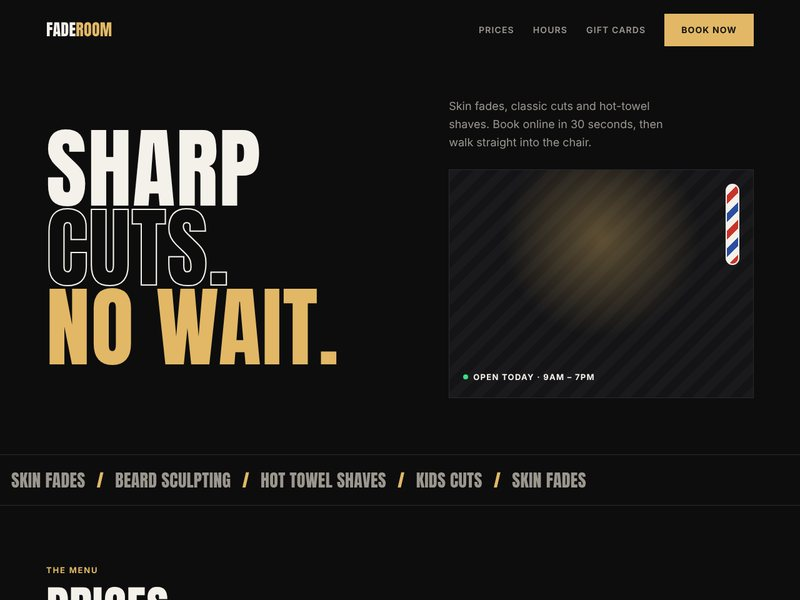
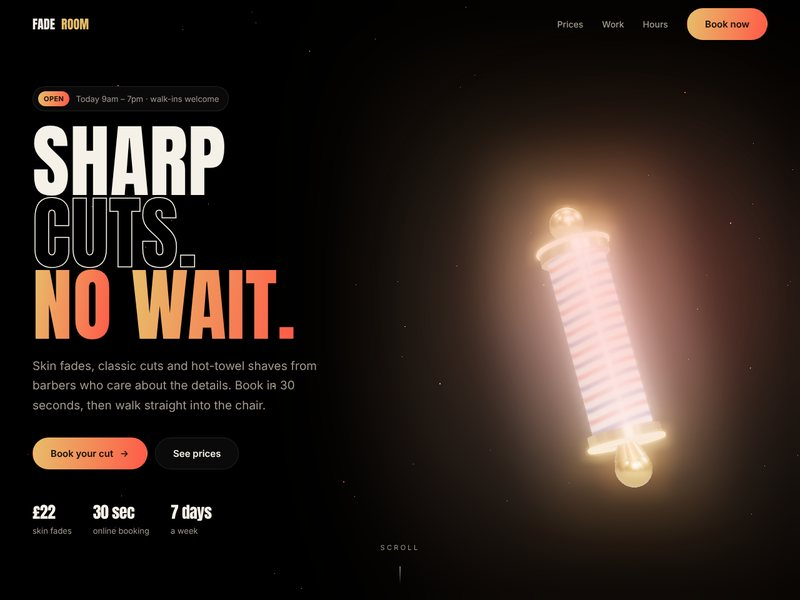
Finish 3D concept rebuild: self-building wireframe villa, Stonecrest replaces bakery
Claude-Session: https://claude.ai/code/session_01WikESusdrzzA22952kw9ZX

diff --git a/website/concepts.html b/website/concepts.html
@@ -42,7 +42,7 @@
     <div class="wrap">
       <span class="eyebrow"><span class="dot"></span> Concepts for you</span>
       <h1>See what your website <em>could look like.</em></h1>
-      <p class="lede">These are example homepages I've designed for different kinds of business. Find a style you like, and I'll build a version made just for your business: your name, your colours, your content.</p>
+      <p class="lede">These are live example homepages I've designed for different kinds of business, each with its own animated 3D centrepiece. Open one and scroll. Find a style you like, and I'll build a version made just for your business: your name, your colours, your content.</p>
     </div>
   </section>
 
@@ -50,22 +50,21 @@
     <div class="wrap">
       <div class="filters" role="group" aria-label="Filter concepts by industry">
         <button class="chip" data-filter="all" aria-pressed="true">All</button>
-        <button class="chip" data-filter="food" aria-pressed="false">Food &amp; drink</button>
+        <button class="chip" data-filter="property" aria-pressed="false">Construction &amp; property</button>
         <button class="chip" data-filter="beauty" aria-pressed="false">Health, beauty &amp; fitness</button>
         <button class="chip" data-filter="trades" aria-pressed="false">Trades &amp; services</button>
-        <button class="chip" data-filter="property" aria-pressed="false">Property</button>
       </div>
       <div class="concepts">
-        <article class="concept reveal" data-cat="food">
-          <a class="shot" href="work/ember-and-oak.html" aria-label="View the Ember &amp; Oak concept"><img src="assets/work-ember-and-oak.jpg" alt="Homepage concept for Ember &amp; Oak" width="800" height="600" loading="lazy"></a>
+        <article class="concept reveal" data-cat="property">
+          <a class="shot" href="work/stonecrest.html" aria-label="View the Stonecrest Homes concept"><img src="assets/work-stonecrest.jpg" alt="Homepage concept for Stonecrest Homes" width="800" height="600" loading="lazy"></a>
           <div class="concept-body">
-            <div class="concept-top"><h2>Ember &amp; Oak</h2><span class="industry">Bakery &amp; café</span></div>
-            <p>Warm and editorial. Elegant serif headings, cream and terracotta, and a menu customers want to read.</p>
-            <div class="swatches"><i style="background:#f6efe4"></i><i style="background:#c8643b"></i><i style="background:#3b2a20"></i><span>Colour palette</span></div>
-            <ul class="features"><li>Menu with prices</li><li>Opening hours</li><li>Table booking</li><li>Map</li></ul>
+            <div class="concept-top"><h2>Stonecrest Homes</h2><span class="industry">Luxury construction</span></div>
+            <p>Dark, gold and cinematic. A glowing wireframe villa builds itself floor by floor as you scroll, alongside a gallery of finished homes.</p>
+            <div class="swatches"><i style="background:#0b0a08"></i><i style="background:#d9b46c"></i><i style="background:#8fd3ff"></i><span>Colour palette</span></div>
+            <ul class="features"><li>Self-building 3D villa</li><li>Project gallery</li><li>Process timeline</li><li>Consultation booking</li></ul>
             <div class="concept-actions">
-              <a class="btn btn-ghost" href="work/ember-and-oak.html">View full design</a>
-              <a class="btn btn-primary" href="index.html?concept=Ember%20%26%20Oak#contact">I want something like this</a>
+              <a class="btn btn-ghost" href="work/stonecrest.html">View live design</a>
+              <a class="btn btn-primary" href="index.html?concept=Stonecrest%20Homes#contact">I want something like this</a>
             </div>
           </div>
         </article>
@@ -73,25 +72,25 @@
           <a class="shot" href="work/fade-room.html" aria-label="View the Fade Room concept"><img src="assets/work-fade-room.jpg" alt="Homepage concept for Fade Room" width="800" height="600" loading="lazy"></a>
           <div class="concept-body">
             <div class="concept-top"><h2>Fade Room</h2><span class="industry">Barbershop</span></div>
-            <p>Bold and dark. Huge headlines, black and gold, and booking front and centre so customers can grab a slot fast.</p>
-            <div class="swatches"><i style="background:#0d0d0e"></i><i style="background:#e2b866"></i><i style="background:#f4f1ea"></i><span>Colour palette</span></div>
-            <ul class="features"><li>Online booking</li><li>Price list</li><li>Time slots</li><li>Gift cards</li></ul>
+            <p>Bold and loud. A chrome barber pole spins in 3D with neon-gold glow, plus a price list and live booking slots.</p>
+            <div class="swatches"><i style="background:#090807"></i><i style="background:#e8bd6a"></i><i style="background:#ff5a48"></i><span>Colour palette</span></div>
+            <ul class="features"><li>3D barber pole</li><li>Price list</li><li>Booking slots</li><li>Photo gallery</li></ul>
             <div class="concept-actions">
-              <a class="btn btn-ghost" href="work/fade-room.html">View full design</a>
+              <a class="btn btn-ghost" href="work/fade-room.html">View live design</a>
               <a class="btn btn-primary" href="index.html?concept=Fade%20Room#contact">I want something like this</a>
             </div>
           </div>
         </article>
         <article class="concept reveal" data-cat="trades">
-          <a class="shot" href="work/northline.html" aria-label="View the Northline Plumbing &amp; Heating concept"><img src="assets/work-northline.jpg" alt="Homepage concept for Northline Plumbing &amp; Heating" width="800" height="600" loading="lazy"></a>
+          <a class="shot" href="work/northline.html" aria-label="View the Northline Heating &amp; Bathrooms concept"><img src="assets/work-northline.jpg" alt="Homepage concept for Northline Heating &amp; Bathrooms" width="800" height="600" loading="lazy"></a>
           <div class="concept-body">
-            <div class="concept-top"><h2>Northline Plumbing &amp; Heating</h2><span class="industry">Trades</span></div>
-            <p>Clean and trustworthy. Built to win calls and quote requests from people who need help today.</p>
-            <div class="swatches"><i style="background:#0f2a4a"></i><i style="background:#ff7a1a"></i><i style="background:#f5f7fa"></i><span>Colour palette</span></div>
-            <ul class="features"><li>Quick quote form</li><li>Tap-to-call</li><li>Trust points</li><li>Service list</li></ul>
+            <div class="concept-top"><h2>Northline Heating &amp; Bathrooms</h2><span class="industry">Trades</span></div>
+            <p>Clean and high-tech. A glass water drop with glowing heat rings, built to win quote requests and calls.</p>
+            <div class="swatches"><i style="background:#050a13"></i><i style="background:#ff8a3d"></i><i style="background:#3fb6ff"></i><span>Colour palette</span></div>
+            <ul class="features"><li>3D glass droplet</li><li>Postcode check</li><li>Service cards</li><li>Tap-to-call</li></ul>
             <div class="concept-actions">
-              <a class="btn btn-ghost" href="work/northline.html">View full design</a>
-              <a class="btn btn-primary" href="index.html?concept=Northline%20Plumbing%20%26%20Heating#contact">I want something like this</a>
+              <a class="btn btn-ghost" href="work/northline.html">View live design</a>
+              <a class="btn btn-primary" href="index.html?concept=Northline%20Heating%20%26%20Bathrooms#contact">I want something like this</a>
             </div>
           </div>
         </article>
@@ -99,11 +98,11 @@
           <a class="shot" href="work/lumen.html" aria-label="View the Lumen Skin Clinic concept"><img src="assets/work-lumen.jpg" alt="Homepage concept for Lumen Skin Clinic" width="800" height="600" loading="lazy"></a>
           <div class="concept-body">
             <div class="concept-top"><h2>Lumen Skin Clinic</h2><span class="industry">Beauty &amp; aesthetics</span></div>
-            <p>Soft and calming. Gentle colours, graceful type and clear treatment prices to put new clients at ease.</p>
-            <div class="swatches"><i style="background:#fbf6f3"></i><i style="background:#b86f61"></i><i style="background:#9fae98"></i><span>Colour palette</span></div>
-            <ul class="features"><li>Treatment menu</li><li>Consultation booking</li><li>Prices</li></ul>
+            <p>Soft and luxurious. A pearly liquid blob shimmers and morphs as you scroll, with calm serif type and treatment prices.</p>
+            <div class="swatches"><i style="background:#0c090b"></i><i style="background:#ffb4a6"></i><i style="background:#c3b1ff"></i><span>Colour palette</span></div>
+            <ul class="features"><li>3D liquid blob</li><li>Treatment menu</li><li>Consultation booking</li></ul>
             <div class="concept-actions">
-              <a class="btn btn-ghost" href="work/lumen.html">View full design</a>
+              <a class="btn btn-ghost" href="work/lumen.html">View live design</a>
               <a class="btn btn-primary" href="index.html?concept=Lumen%20Skin%20Clinic#contact">I want something like this</a>
             </div>
           </div>
@@ -112,11 +111,11 @@
           <a class="shot" href="work/pulse.html" aria-label="View the Pulse Fitness concept"><img src="assets/work-pulse.jpg" alt="Homepage concept for Pulse Fitness" width="800" height="600" loading="lazy"></a>
           <div class="concept-body">
             <div class="concept-top"><h2>Pulse Fitness</h2><span class="industry">Gym &amp; fitness</span></div>
-            <p>High energy. Electric colours, punchy type and a live class timetable that gets people signing up.</p>
-            <div class="swatches"><i style="background:#111111"></i><i style="background:#c6f432"></i><i style="background:#5b3df5"></i><span>Colour palette</span></div>
-            <ul class="features"><li>Class timetable</li><li>Membership plans</li><li>Free trial sign-up</li></ul>
+            <p>High energy. A neon-edged dumbbell spins through the page, with a class timetable and membership plans.</p>
+            <div class="swatches"><i style="background:#060608"></i><i style="background:#c6f432"></i><i style="background:#7b5cff"></i><span>Colour palette</span></div>
+            <ul class="features"><li>3D dumbbell</li><li>Class timetable</li><li>Membership plans</li><li>Free trial</li></ul>
             <div class="concept-actions">
-              <a class="btn btn-ghost" href="work/pulse.html">View full design</a>
+              <a class="btn btn-ghost" href="work/pulse.html">View live design</a>
               <a class="btn btn-primary" href="index.html?concept=Pulse%20Fitness#contact">I want something like this</a>
             </div>
           </div>
@@ -125,17 +124,17 @@
           <a class="shot" href="work/harbour.html" aria-label="View the Harbour &amp; Co. concept"><img src="assets/work-harbour.jpg" alt="Homepage concept for Harbour &amp; Co." width="800" height="600" loading="lazy"></a>
           <div class="concept-body">
             <div class="concept-top"><h2>Harbour &amp; Co.</h2><span class="industry">Estate agent</span></div>
-            <p>Premium and established. Deep green and brass, with property search and listings at the heart of it.</p>
-            <div class="swatches"><i style="background:#1f3b33"></i><i style="background:#c9a45c"></i><i style="background:#f7f5ef"></i><span>Colour palette</span></div>
-            <ul class="features"><li>Property search</li><li>Listings</li><li>Valuation booking</li></ul>
+            <p>Premium and established. A gold key with glowing halos, property search, listings and valuation booking.</p>
+            <div class="swatches"><i style="background:#050d0b"></i><i style="background:#dcb46e"></i><i style="background:#5fd3b0"></i><span>Colour palette</span></div>
+            <ul class="features"><li>3D gold key</li><li>Property search</li><li>Listings</li><li>Valuation booking</li></ul>
             <div class="concept-actions">
-              <a class="btn btn-ghost" href="work/harbour.html">View full design</a>
+              <a class="btn btn-ghost" href="work/harbour.html">View live design</a>
               <a class="btn btn-primary" href="index.html?concept=Harbour%20%26%20Co.#contact">I want something like this</a>
             </div>
           </div>
         </article>
       </div>
-      <p class="note">All concepts are for fictional businesses, created to show my design range. Don't see your industry? I design for any kind of business.</p>
+      <p class="note">All concepts are for fictional businesses, created to show my design range. Best viewed on a computer or a recent phone. Don't see your industry? I design for any kind of business.</p>
     </div>
   </section>
 

diff --git a/website/work/fx.js b/website/work/fx.js
@@ -162,7 +162,7 @@ function setupScene(opts, ui) {
 
   // object
   const holder = new THREE.Group(); scene.add(holder);
-  const built = BUILDERS[opts.object](C);
+  const built = BUILDERS[opts.object](C, opts);
   const obj = built.group;
   const box = new THREE.Box3().setFromObject(obj); const sphere = box.getBoundingSphere(new THREE.Sphere());
   obj.position.sub(sphere.center); const norm = new THREE.Group(); norm.add(obj); norm.scale.setScalar(1 / sphere.radius);
@@ -273,24 +273,96 @@ const glass = (color, extra = {}) => new THREE.MeshPhysicalMaterial({ color, tra
 const edges = (geo, color, opacity = .9) => new THREE.LineSegments(new THREE.EdgesGeometry(geo), new THREE.LineBasicMaterial({ color, transparent: true, opacity }));
 
 const BUILDERS = {
-  // Stonecrest — architectural model of a modern house with glowing windows
-  house(C) {
+  // Stonecrest — a luxury villa that builds itself in glowing wireframe as you scroll
+  wireframe(C, opts) {
     const g = new THREE.Group();
-    const white = new THREE.MeshStandardMaterial({ color: 0xb9b2a6, roughness: .6, metalness: .05 });
-    const stone = new THREE.MeshStandardMaterial({ color: 0x2a2622, roughness: .8 });
-    const gold = metal(C.accent, .25);
-    const add = (geo, mat, x, y, z) => { const m = new THREE.Mesh(geo, mat); m.position.set(x, y, z); g.add(m); return m; };
-    add(new THREE.BoxGeometry(4.4, .16, 3.2), stone, 0, -.08, 0);
-    add(new THREE.BoxGeometry(2.6, 1, 2), glow(0xffb866, 1.15), -.5, .5, 0);                 // glowing glass ground floor
-    for (const x of [-1.78, -.5, .78]) for (const z of [-.98, .98]) add(new THREE.BoxGeometry(.06, 1, .06), gold, x, .5, z);
-    add(new THREE.BoxGeometry(3.9, .14, 2.5), white, .35, 1.07, 0);                          // first floor slab
-    add(new THREE.BoxGeometry(2.9, .9, 2.1), white, .6, 1.59, 0);                            // upper volume
-    add(new THREE.BoxGeometry(2.94, .26, 2.14), glow(0xffc77a, 1.4), .6, 1.62, 0);           // ribbon window
-    add(new THREE.BoxGeometry(3.3, .12, 2.5), white, .6, 2.1, 0);                            // roof
-    add(new THREE.BoxGeometry(.5, 2.1, .5), stone, -1.55, 1.05, -.6);                         // chimney wall
-    add(new THREE.BoxGeometry(1.5, .05, 1), glow(C.accent2, 1.3), 1.35, .02, .9);             // pool
-    const wire = edges(new THREE.BoxGeometry(4.6, 2.5, 3.4), C.accent, .25); wire.position.set(0, 1.1, 0); g.add(wire);
-    return { group: g };
+    const V = (x, y, z) => new THREE.Vector3(x, y, z);
+    const parts = [];
+    const ease = k => 1 - Math.pow(1 - k, 3);
+    const steel = new THREE.MeshStandardMaterial({ color: 0x000000, emissive: C.accent, emissiveIntensity: 1.6 });
+    const up = V(0, 1, 0);
+
+    // a beam that grows from a to b
+    function beam(a, b, t0, t1, thick = .032) {
+      const d = b.clone().sub(a), L = d.length();
+      const geo = new THREE.BoxGeometry(thick, L, thick); geo.translate(0, L / 2, 0);
+      const m = new THREE.Mesh(geo, steel); m.position.copy(a);
+      m.quaternion.setFromUnitVectors(up, d.normalize());
+      g.add(m); parts.push({ m, t0, t1, kind: "grow" });
+    }
+    // a translucent plate that fades in (slabs, glass, pool)
+    function plate(w, h, d, x, y, z, t0, t1, color, opacity, emissive = .25) {
+      const mat = new THREE.MeshStandardMaterial({ color, emissive: color, emissiveIntensity: emissive, transparent: true, opacity: 0, depthWrite: false, side: THREE.DoubleSide });
+      const m = new THREE.Mesh(new THREE.BoxGeometry(w, h, d), mat); m.position.set(x, y, z);
+      g.add(m); parts.push({ m, t0, t1, kind: "fade", opacity });
+      return m;
+    }
+    // a box frame: columns at grid points, then perimeter + grid beams on top
+    function level(x0, x1, z0, z1, y0, y1, nx, nz, t0) {
+      const xs = Array.from({ length: nx + 1 }, (_, i) => x0 + (x1 - x0) * i / nx);
+      const zs = Array.from({ length: nz + 1 }, (_, i) => z0 + (z1 - z0) * i / nz);
+      let i = 0;
+      const cols = xs.length * zs.length;
+      xs.forEach(x => zs.forEach(z => { const s = t0 + (i++ / cols) * .08; beam(V(x, y0, z), V(x, y1, z), s, s + .07, .045); }));
+      xs.forEach((x, j) => beam(V(x, y1, z0), V(x, y1, z1), t0 + .08 + j * .01, t0 + .14 + j * .01));
+      zs.forEach((z, j) => beam(V(x0, y1, z), V(x1, y1, z), t0 + .09 + j * .01, t0 + .15 + j * .01));
+    }
+
+    // blueprint grid on the ground
+    const grid = new THREE.GridHelper(6, 24, C.accent, C.accent);
+    grid.material.transparent = true; grid.material.opacity = 0; grid.material.depthWrite = false;
+    g.add(grid); parts.push({ m: grid, t0: 0, t1: .1, kind: "fade", opacity: .22, mat: grid.material });
+
+    // foundation outline
+    const f = [V(-2.2, 0, -1.4), V(1.4, 0, -1.4), V(1.4, 0, 1.4), V(-2.2, 0, 1.4)];
+    f.forEach((p, i) => beam(p, f[(i + 1) % 4], .03 + i * .015, .09 + i * .015, .04));
+
+    // ground floor, first floor (cantilevered over the pool), rooftop pavilion
+    level(-2.1, 1.1, -1.3, 1.3, 0, 1, 3, 2, .1);
+    plate(3.5, .05, 2.9, -.35, 1.02, 0, .26, .34, C.accent, .16);
+    level(-1.3, 2.3, -1.4, 1.4, 1.04, 2.04, 3, 2, .34);
+    plate(4.1, .06, 3.3, .5, 2.07, 0, .5, .58, C.accent, .2);
+    level(-.7, .9, -.8, .8, 2.1, 2.75, 1, 1, .58);
+    plate(1.9, .05, 1.9, .1, 2.78, 0, .7, .76, C.accent, .2);
+
+    // glass walls light up warm
+    const warm = 0xffb35c;
+    plate(3.2, .96, .02, -.5, .5, 1.3, .74, .84, warm, .42, .9);
+    plate(3.2, .96, .02, -.5, .5, -1.3, .76, .86, warm, .3, .7);
+    plate(3.6, .96, .02, .5, 1.54, 1.4, .78, .88, warm, .42, .9);
+    plate(.02, .96, 2.8, 2.3, 1.54, 0, .8, .9, warm, .32, .8);
+    plate(1.6, .6, .02, .1, 2.42, .8, .84, .92, warm, .4, .9);
+
+    // infinity pool
+    plate(2, .04, 1.1, 1.3, .03, 2.05, .86, .96, C.accent2, .7, 1.4);
+    beam(V(.3, .05, 1.5), V(2.3, .05, 1.5), .86, .94, .02);
+
+    const ui = { p: 0, t0: null };
+    const until = () => {
+      const el = document.querySelector(opts.buildUntil || "#process");
+      return el ? Math.max(400, el.getBoundingClientRect().top + scrollY - innerHeight * .35) : 3000;
+    };
+    let untilAt = until();
+    addEventListener("resize", () => { untilAt = until(); });
+    addEventListener("load", () => { untilAt = until(); });
+
+    const apply = p => parts.forEach(pt => {
+      const k = ease(Math.min(1, Math.max(0, (p - pt.t0) / (pt.t1 - pt.t0))));
+      if (pt.kind === "grow") { pt.m.visible = k > .001; pt.m.scale.set(1, Math.max(k, .001), 1); }
+      else { const mat = pt.mat || pt.m.material; mat.opacity = pt.opacity * k; pt.m.visible = k > .001; }
+    });
+    apply(reduce ? 1 : 0);
+
+    return { group: g, update: (t, dt, sy) => {
+      if (reduce) return;
+      if (ui.t0 === null) ui.t0 = t;
+      const intro = Math.min(.4, (t - ui.t0) / 3.2 * .4);
+      const scrolled = .4 + .6 * Math.min(1, sy / untilAt);
+      const goal = Math.max(intro, sy > 2 ? scrolled : intro);
+      ui.p += (goal - ui.p) * Math.min(1, dt * 4);
+      apply(ui.p);
+      steel.emissiveIntensity = 1.5 + Math.sin(t * 2) * .15;
+    } };
   },
 
   // Fade Room — chrome-capped barber pole with spinning stripes
@@ -304,7 +376,7 @@ const BUILDERS = {
     x.restore();
     const tex = new THREE.CanvasTexture(cv); tex.wrapS = tex.wrapT = THREE.RepeatWrapping; tex.repeat.set(1, 2); tex.colorSpace = THREE.SRGBColorSpace;
     const body = new THREE.Mesh(new THREE.CylinderGeometry(.32, .32, 2.4, 64, 1, true),
-      new THREE.MeshStandardMaterial({ map: tex, emissiveMap: tex, emissive: 0xffffff, emissiveIntensity: .55, roughness: .35 }));
+      new THREE.MeshStandardMaterial({ map: tex, emissiveMap: tex, emissive: 0xffffff, emissiveIntensity: .22, roughness: .3 }));
     g.add(body);
     g.add(new THREE.Mesh(new THREE.CylinderGeometry(.4, .4, 2.42, 64, 1, true), glass(0xffffff, { thickness: .3 })));
     const gold = metal(C.accent, .18);
@@ -359,7 +431,7 @@ const BUILDERS = {
   // Pulse — neon-edged hex dumbbell
   dumbbell(C) {
     const g = new THREE.Group();
-    const chrome = metal(0xd9dce2, .15), rubber = new THREE.MeshStandardMaterial({ color: 0x141416, roughness: .55, metalness: .3 });
+    const chrome = metal(0xd9dce2, .15), rubber = new THREE.MeshPhysicalMaterial({ color: 0x24242a, roughness: .35, metalness: .4, clearcoat: 1, clearcoatRoughness: .2 });
     const bar = new THREE.Mesh(new THREE.CylinderGeometry(.075, .075, 3.2, 32), chrome); bar.rotation.z = Math.PI / 2; g.add(bar);
     const grip = new THREE.Mesh(new THREE.CylinderGeometry(.09, .09, 1.3, 32), metal(0x8a8d95, .55)); grip.rotation.z = Math.PI / 2; g.add(grip);
     for (const s of [1, -1]) {

diff --git a/website/index.html b/website/index.html
@@ -159,30 +159,30 @@
       <div class="section-head reveal">
         <span class="kicker">Work</span>
         <h2>The kind of sites I build.</h2>
-        <p>Concept homepages for three very different kinds of business, each with its own look and its own goal.</p>
+        <p>Animated 3D concept homepages for very different kinds of business, each with its own look and its own goal.</p>
       </div>
       <div class="work">
-        <a class="project reveal" href="work/ember-and-oak.html">
-          <div class="shot"><img src="assets/work-ember-and-oak.jpg" alt="Homepage design for Ember &amp; Oak" width="800" height="600" loading="lazy"></div>
+        <a class="project reveal" href="work/stonecrest.html">
+          <div class="shot"><img src="assets/work-stonecrest.jpg" alt="Homepage design for Stonecrest Homes" width="800" height="600" loading="lazy"></div>
           <div class="project-info">
-            <h3>Ember &amp; Oak <span class="view">View design →</span></h3>
-            <p>A warm, editorial homepage with menu highlights, opening hours and table booking.</p>
-            <div class="tags"><span>Bakery &amp; café</span><span>Bookings</span></div>
+            <h3>Stonecrest Homes <span class="view">View design →</span></h3>
+            <p>A cinematic homepage where a glowing 3D villa builds itself as you scroll.</p>
+            <div class="tags"><span>Construction</span><span>3D animation</span></div>
           </div>
         </a>
         <a class="project reveal" href="work/fade-room.html">
           <div class="shot"><img src="assets/work-fade-room.jpg" alt="Homepage design for Fade Room" width="800" height="600" loading="lazy"></div>
           <div class="project-info">
             <h3>Fade Room <span class="view">View design →</span></h3>
-            <p>A bold, dark design built around online booking and a clear price list.</p>
+            <p>Bold and neon, with a spinning 3D barber pole and live booking slots.</p>
             <div class="tags"><span>Barbershop</span><span>Price list</span></div>
           </div>
         </a>
         <a class="project reveal" href="work/northline.html">
           <div class="shot"><img src="assets/work-northline.jpg" alt="Homepage design for Northline Plumbing" width="800" height="600" loading="lazy"></div>
           <div class="project-info">
-            <h3>Northline Plumbing <span class="view">View design →</span></h3>
-            <p>A lead-generating homepage with a quick quote form and tap-to-call buttons.</p>
+            <h3>Northline Heating <span class="view">View design →</span></h3>
+            <p>A glass 3D water drop and a design built to win quote requests.</p>
             <div class="tags"><span>Trades</span><span>Lead generation</span></div>
           </div>
         </a>

diff --git a/website/work/stonecrest.html b/website/work/stonecrest.html
@@ -85,7 +85,7 @@
     </section>
 
     <section id="process" data-obj="-.52 0 .55">
-      <div class="wrap split flip">
+      <div class="wrap split">
         <div aria-hidden="true"></div>
         <div>
           <span class="kicker">How we work</span>
@@ -133,7 +133,7 @@
 <script type="module">
   import { start } from "./fx.js";
   window.__fx = true;
-  start({ object: "house", colors: { bg: "#0b0a08", accent: "#d9b46c", accent2: "#8fd3ff" }, baseTilt: [.42, -.75, 0], spin: .8 });
+  start({ object: "wireframe", colors: { bg: "#0b0a08", accent: "#d9b46c", accent2: "#8fd3ff" }, baseTilt: [.38, -.65, 0], spin: .6, heroScale: 1.05, buildUntil: "#process" });
 </script>
 </body>
 </html>

diff --git a/website/work/harbour.html b/website/work/harbour.html
@@ -70,7 +70,7 @@
     </section>
 
     <section id="sell" data-obj="-.5 0 .55">
-      <div class="wrap split flip">
+      <div class="wrap split">
         <div aria-hidden="true"></div>
         <div>
           <span class="kicker">Selling with us</span>
@@ -117,7 +117,7 @@
 <script type="module">
   import { start } from "./fx.js";
   window.__fx = true;
-  start({ object: "key", colors: { bg: "#050d0b", accent: "#dcb46e", accent2: "#5fd3b0" }, baseTilt: [.15, 0, -.5], spin: .9, envIntensity: 1 });
+  start({ object: "key", colors: { bg: "#050d0b", accent: "#dcb46e", accent2: "#5fd3b0" }, baseTilt: [.15, 0, -.5], spin: .9, envIntensity: 1, heroScale: 1.1 });
 </script>
 </body>
 </html>

diff --git a/website/work/pulse.html b/website/work/pulse.html
@@ -121,7 +121,7 @@
 <script type="module">
   import { start } from "./fx.js";
   window.__fx = true;
-  start({ object: "dumbbell", colors: { bg: "#060608", accent: "#c6f432", accent2: "#7b5cff" }, baseTilt: [.35, .5, .25], spin: 1.2, envIntensity: 1 });
+  start({ object: "dumbbell", colors: { bg: "#060608", accent: "#c6f432", accent2: "#7b5cff" }, baseTilt: [.3, .35, .2], spin: 1.2, envIntensity: 1.2, heroScale: 1.2 });
 </script>
 </body>
 </html>

diff --git a/website/work/lumen.html b/website/work/lumen.html
@@ -59,7 +59,7 @@
     </div></div>
 
     <section id="about" data-obj="-.5 0 .55">
-      <div class="wrap split flip">
+      <div class="wrap split">
         <div aria-hidden="true"></div>
         <div>
           <span class="kicker">Our philosophy</span>

diff --git a/website/work/northline.html b/website/work/northline.html
@@ -69,7 +69,7 @@
     </section>
 
     <section id="why" data-obj="-.5 0 .6">
-      <div class="wrap split flip">
+      <div class="wrap split">
         <div aria-hidden="true"></div>
         <div>
           <span class="kicker">Why Northline</span>

diff --git a/website/work/fade-room.html b/website/work/fade-room.html
@@ -88,7 +88,7 @@
     </section>
 
     <section data-obj="-.52 .05 .55">
-      <div class="wrap split flip">
+      <div class="wrap split">
         <div aria-hidden="true"></div>
         <div>
           <span class="kicker">Why Fade Room</span>

diff --git a/website/README.md b/website/README.md
@@ -14,7 +14,7 @@ Search `index.html` for these and replace them:
 - **Business name**: Veyro Digital. The logo files are in `assets/` (`logo-mark.png` for the top bar and favicon, `logo.png` for the full logo).
 - **Contact**: veyrodigital08@gmail.com and 07873 811503. The email appears in the contact section, the footer and `CONTACT_EMAIL` near the bottom of `index.html` (where the form sends messages).
 - **Prices**: introductory launch prices in GBP (Starter £299, Business £699, Store £1,199+, care plan £25/month). Raise them in the Pricing section as you get clients.
-- **Concepts page** (`concepts.html`): six example homepages for fictional businesses, each in `work/`, with thumbnails in `assets/work-*.jpg`. The homepage's Work section shows three of them and links to the full page. Each concept's "I want something like this" button opens the contact form with that concept mentioned in the message.
+- **Concepts page** (`concepts.html`): six animated 3D example homepages for fictional businesses, in `work/`. They share `work/concept.css` (dark premium styles) and `work/fx.js` (the 3D objects, built with Three.js, plus scroll animation). Thumbnails are `assets/work-*.jpg` and photos are in `assets/photos/` (see `CREDITS.md`). Each concept's "I want something like this" button opens the contact form with that concept mentioned. The 3D pages must be opened through a web server (any host, or `python3 -m http.server` locally), not by double-clicking the file.
 
 ## Preview
 
